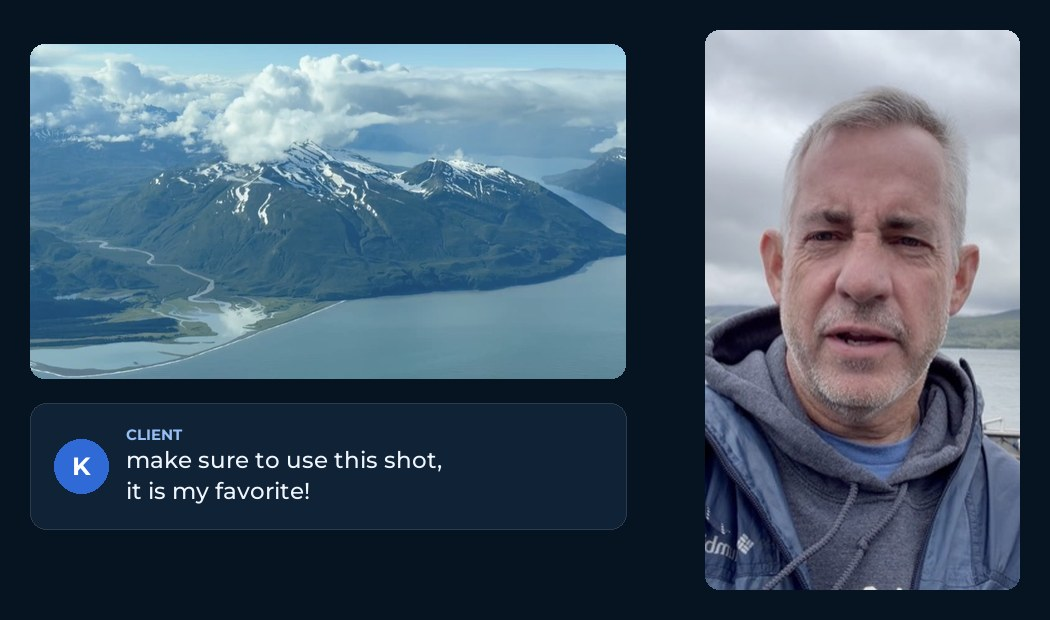
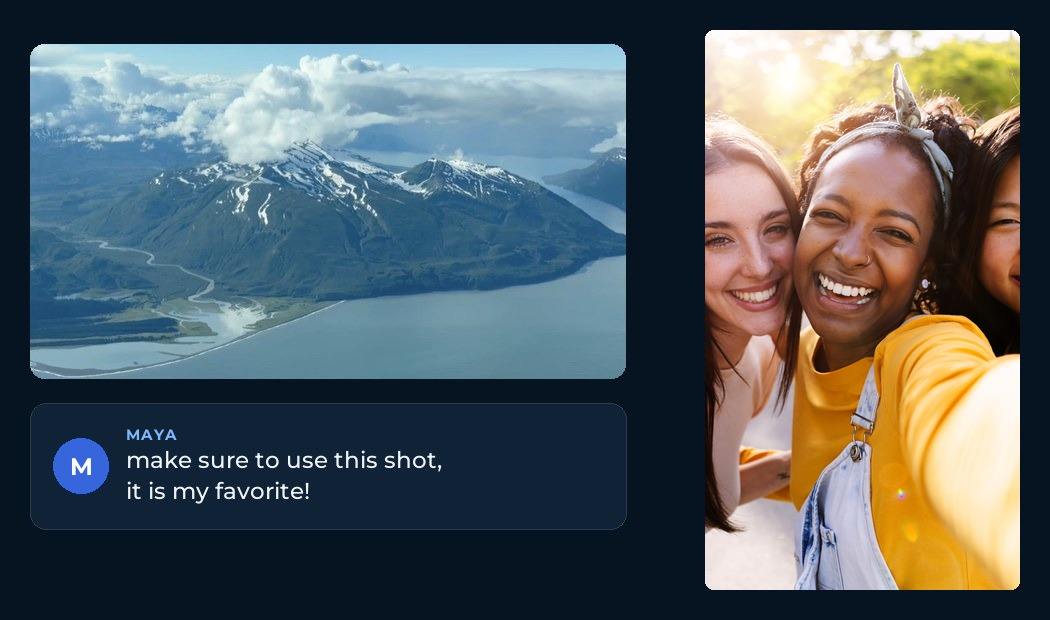
Swap the step-3 delivery mockup to a different subject
The vertical panel now uses Selfie 2 cropped 9:16, and the comment card
is attributed to Maya rather than a generic CLIENT label. Label and
avatar initial placed by measured ink so they sit exactly where the old
ones did. Image cache-buster bumped to v=5.

Changed region(s): [[0.6705, 0.0306, 0.9752, 0.9806], [0.1219, 0.6742, 0.1829, 0.7355], [0.061, 0.7048, 0.0914, 0.7661]]

diff --git a/services.html b/services.html
@@ -565,7 +565,7 @@
               <p>One link, within 24 hours. Comment on anything you want changed and we re-cut — usually the same day. Then it lands ready to upload: the finished video, your vertical Shorts and the caption file. Nothing left for you to&nbsp;do.</p>
             </div>
             <div class="svc-proc-shot">
-              <img src="assets/showcase/delivery.jpg?v=4" alt="What gets delivered: the finished vlog with a client note on a shot, alongside a vertical Short cut from the same footage" loading="lazy" width="1050" height="620">
+              <img src="assets/showcase/delivery.jpg?v=5" alt="What gets delivered: the finished vlog with a client note on a shot, alongside a vertical Short cut from the same footage" loading="lazy" width="1050" height="620">
             </div>
           </div>
         </div>
